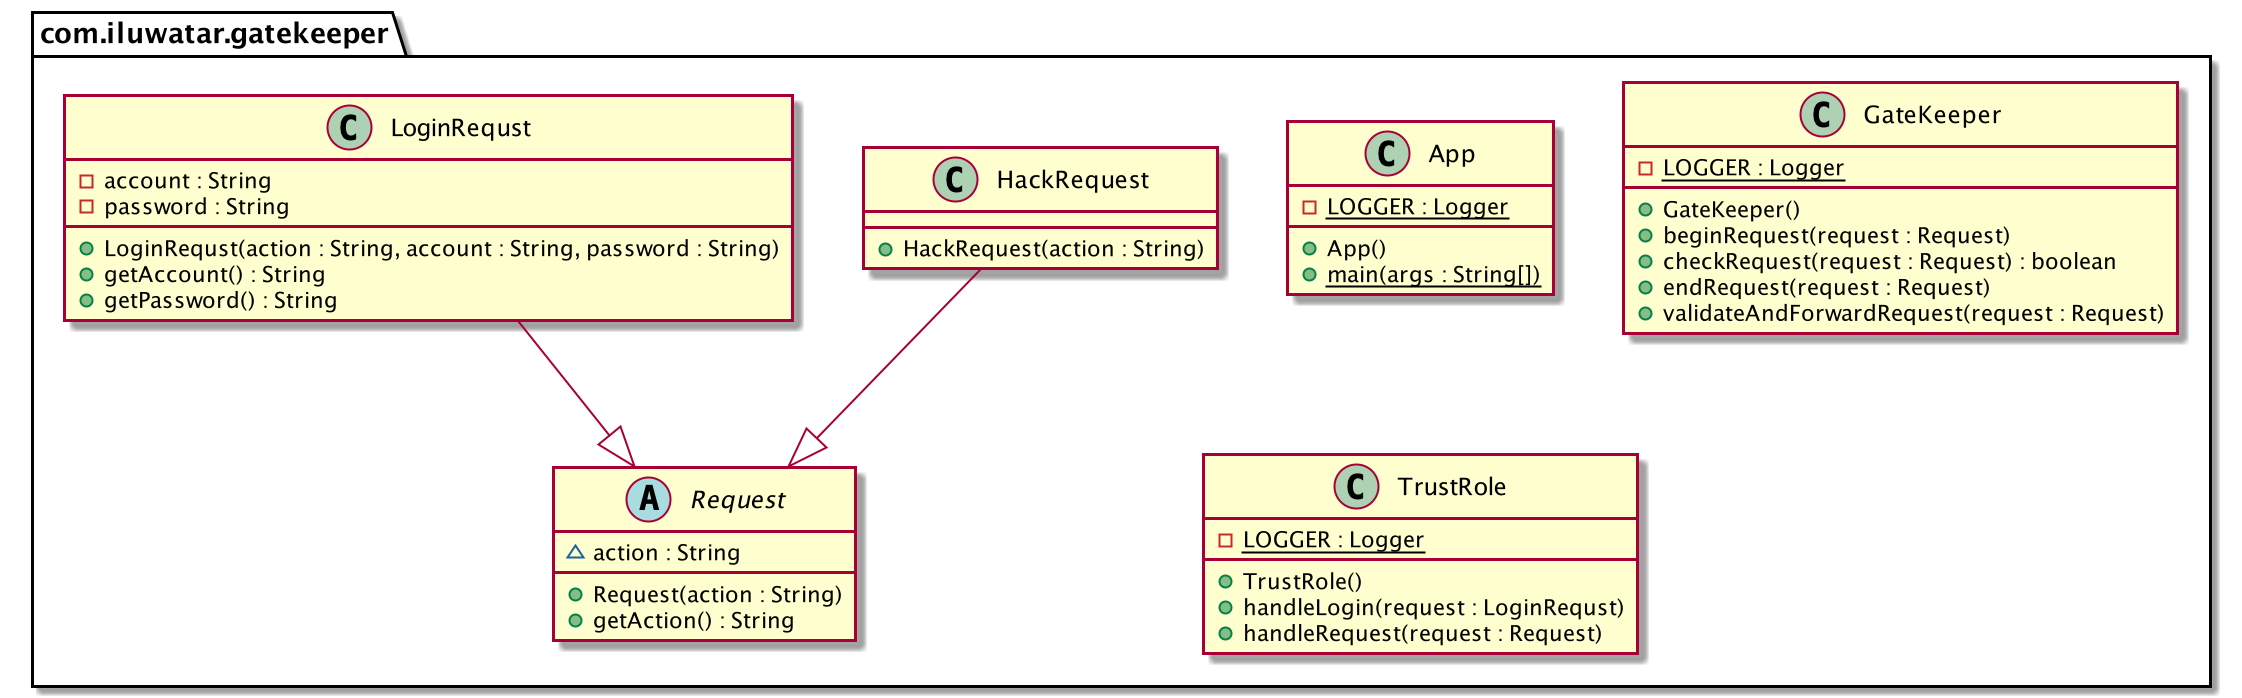
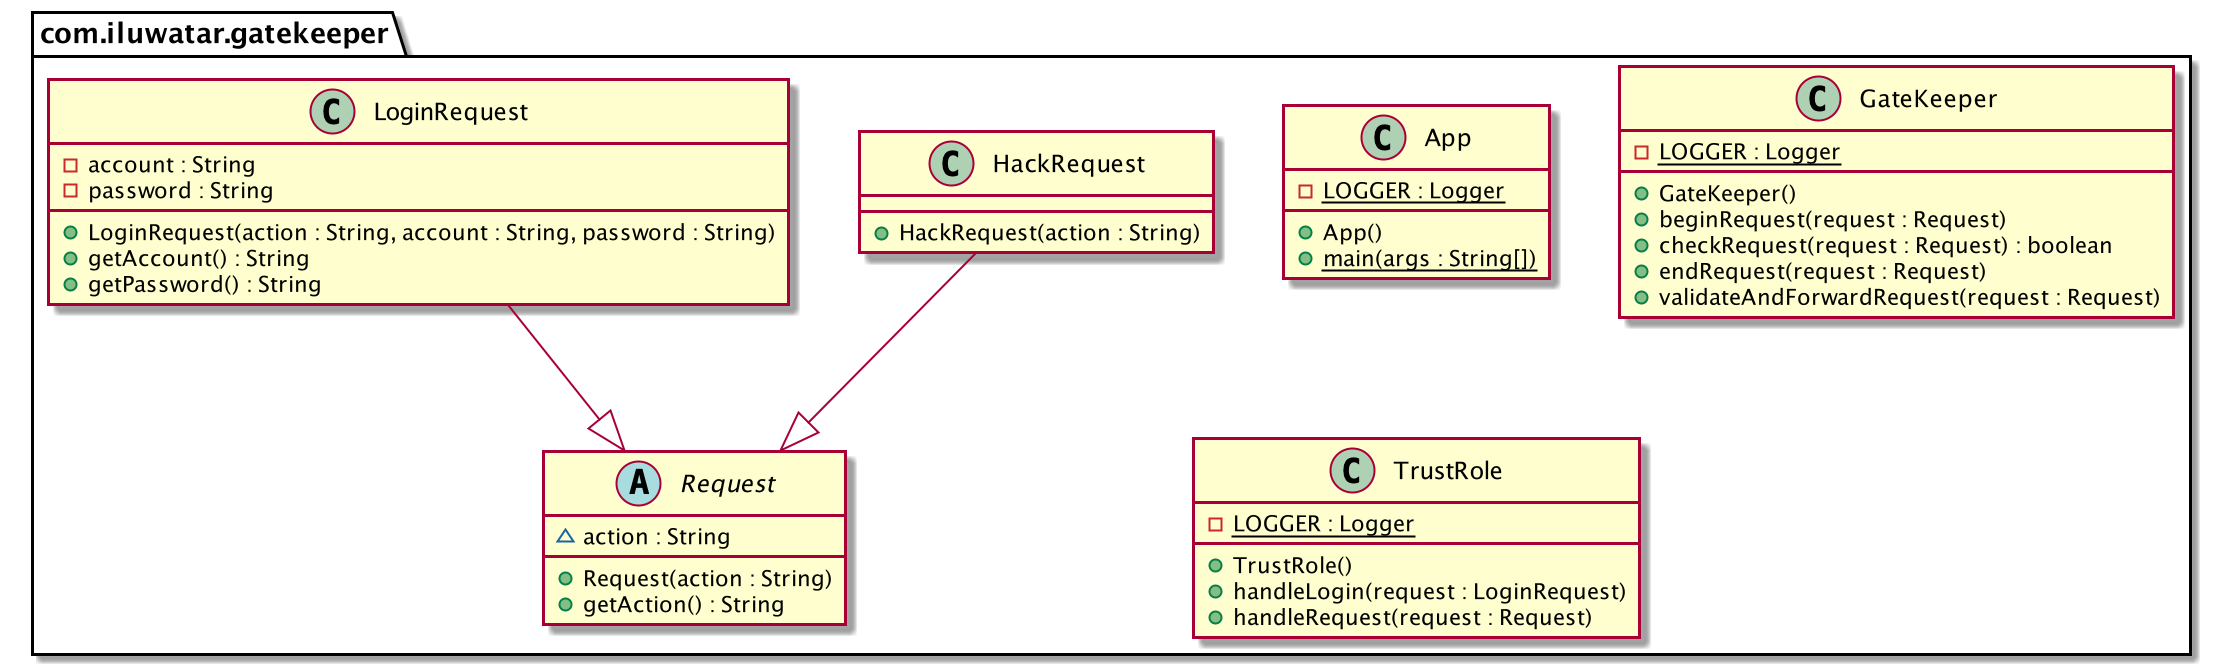
change request

diff --git a/gate-keeper/src/main/java/com/iluwatar/gatekeeper/TrustRole.java b/gate-keeper/src/main/java/com/iluwatar/gatekeeper/TrustRole.java
@@ -14,7 +14,7 @@ public class TrustRole {
   public void handleRequest(Request request) {
     if (request.getAction().equals("login")) {
       LOGGER.info("Handle login request.");
-      handleLogin((LoginRequst) request);
+      handleLogin((LoginRequest) request);
     }
   }
 
@@ -22,7 +22,7 @@ public class TrustRole {
    * Handle a login requests.
    * @param request The request from the client.
    */
-  public void handleLogin(LoginRequst request) {
+  public void handleLogin(LoginRequest request) {
     LOGGER.info("Link to the database and check account: "
             + request.getAccount() + " and password: " + request.getPassword() + ".");
   }

diff --git a/gate-keeper/src/main/java/com/iluwatar/gatekeeper/LoginRequest.java b/gate-keeper/src/main/java/com/iluwatar/gatekeeper/LoginRequest.java
@@ -3,7 +3,8 @@ package com.iluwatar.gatekeeper;
 import lombok.Getter;
 
 @Getter
-public class LoginRequst extends Request {
+
+public class LoginRequest extends Request {
   private final String account;
   private final String password;
 
@@ -13,7 +14,7 @@ public class LoginRequst extends Request {
    * @param account the account of the login request.
    * @param password the password of the login request.
    */
-  public LoginRequst(String action, String account, String password) {
+  public LoginRequest(String action, String account, String password) {
     super(action);
     this.account = account;
     this.password = password;

diff --git a/gate-keeper/src/main/java/com/iluwatar/gatekeeper/App.java b/gate-keeper/src/main/java/com/iluwatar/gatekeeper/App.java
@@ -40,7 +40,7 @@ public class App {
    * Program main entry point.
    */
   public static void main(String[] args) {
-    var goodRequest = new LoginRequst("login", "admin", "123456");
+    var goodRequest = new LoginRequest("login", "admin", "123456");
     var badRequest = new HackRequest("dangerous action");
     var gateKeeper = new GateKeeper();
     gateKeeper.validateAndForwardRequest(goodRequest);

diff --git a/gate-keeper/src/test/java/com/iluwatar/gatekeeper/GateKeeperTest.java b/gate-keeper/src/test/java/com/iluwatar/gatekeeper/GateKeeperTest.java
@@ -27,7 +27,7 @@ class GateKeeperTest {
     @Test
     void TestValidateAndForwardRequest(){
         final var requests= List.of(
-                new LoginRequst("login","account1","password1"),
+                new LoginRequest("login","account1","password1"),
                 new HackRequest("suspicious action")
         );
         var gateKeeper=new GateKeeper();

diff --git a/gate-keeper/README.md b/gate-keeper/README.md
@@ -1,7 +1,7 @@
 ---
 layout: pattern
-folder: gate-keeper
-permalink: /patterns/gate-keeper/
+folder: gatekeeper
+permalink: /patterns/gatekeeper/
 categories: Cloud
 tags:
  - Cloud distributed
